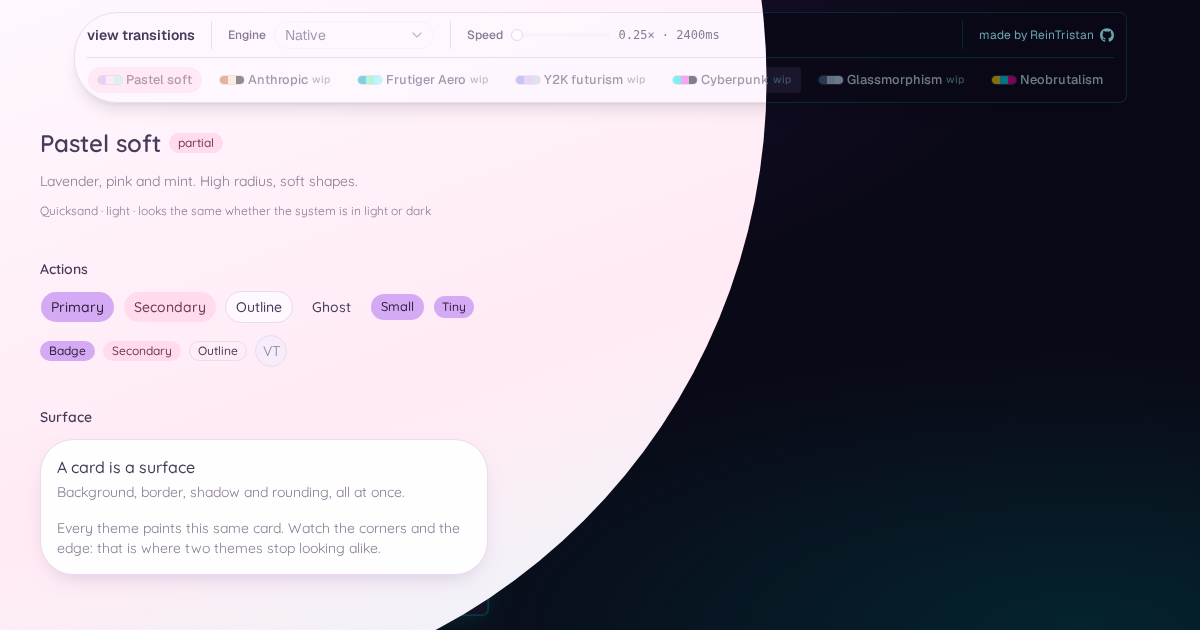
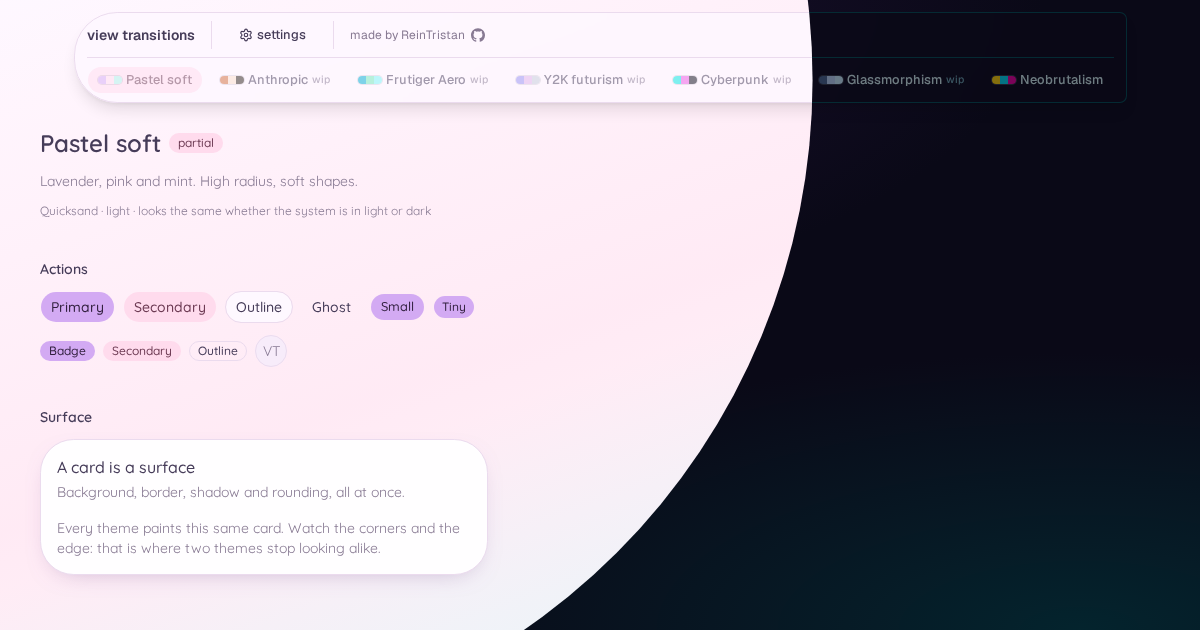
Tailwind first engine part 2: Docs
Updated both readme and claude.md with the new info of the tailwindengine (finally completed)

Upgraded the version to 0.7.0 and changed the description to be inline with the html og one.

Updated the og image and the demo gif for readme

diff --git a/CLAUDE.md b/CLAUDE.md
@@ -33,7 +33,7 @@ Tailwind compiled.
   `tsconfig.test.json` referenced from the solution file. So `pnpm build` typechecks them too —
   a broken test breaks the build. `vitest.config.ts` is referenced from `tsconfig.node.json`.
 - **Adding or removing a test makes `README.md` lie, and it is on you to fix it in the same
-  commit.** Its Testing section opens with a hardcoded count — "176 tests over the store, …" —
+  commit.** Its Testing section opens with a hardcoded count — "N tests over the store, …" —
   and that is the **only** count anywhere in the repo or in `docs/`. Take the new number from the
   `pnpm test:run` summary rather than counting by hand or guessing the delta. Nothing checks
   this, which is exactly why it is written down.
@@ -41,16 +41,22 @@ Tailwind compiled.
   very same pipeline the app gets (the `@` alias, and Tailwind compiling the themes for real).
 - **`optimizeDeps.include` there is load-bearing.** The engines are dynamic imports, so Vite
   discovers them mid-run and *reloads the test file*, which surfaces as a flake with no cause.
-  A new engine means a new line there.
+  A new engine that imports a library means a new line there — `vanilla` and `tailwind` import
+  none, so they have none.
 - Coverage is v8, report only, scoped to `themes/`, `transitions/`, `hooks/` and
   `components/{controls,layout}`. `components/ui/` is excluded on purpose: 61 shadcn files inside
   the include would measure shadcn, not the lab.
 - **The engine conformance suite is the piece to know about.** `test/transitions/engines.test.ts`
-  enumerates `engineList.filter((e) => e.ready)`, so tailwind enrols itself the day its loader
+  enumerates `engineList.filter((e) => e.ready)`, so an engine enrols itself the day its loader
   lands — no test edit. Not a hope, either: `gsap` and `anime` were both added that way and each
-  passed the whole bridge block on the first run. `docs/testing.md` holds the contract.
+  passed the whole bridge block on the first run, and `tailwind` passed four of five. The fifth
+  is why the **native branch asserts the mode, not a name**: some CSS animation or transition on
+  the pseudo-element, and `--vt-progress` untouched. Keyframe names belong to each engine's annex.
+  `docs/testing.md` holds the contract.
 - `document.getAnimations()` filtered by `effect.pseudoElement` is the only window into the
-  view-transition pseudo-elements. That is how the bridge keepalive is actually tested.
+  view-transition pseudo-elements. That is how the bridge keepalive is actually tested, and CSS
+  transitions show up there too (`trace()` records both). **Filter out `-ua-` names** when
+  asking whether an engine animates anything: the browser's own group animation is always there.
 
 ## What this project is
 
@@ -64,8 +70,9 @@ implementations can be compared honestly. Three orthogonal axes:
   the snapshots, a JS library drives the progress), `overlay` (no VT API at all).
 
 Currently implemented: 7 themes (2 partially designed — `pastel` and `neobrutalism`, the
-furthest along but **not** finished — 5 are pendings with a minimum viable palette), and 4
-engines (`vanilla`, `motion`, `gsap`, `anime`). Only `tailwind` is left. The `mode` axis is
+furthest along but **not** finished — 5 are pendings with a minimum viable palette), and all 5
+engines — `tailwind` with 1 of its 5 sub-engines (`core`); the other four are declared as pending
+choices, one plan each. The `mode` axis is
 selectable and persisted, but `overlay` has no module yet, so it shows as pending everywhere.
 
 ## Architecture: the load-bearing decisions
@@ -153,6 +160,14 @@ cannot drift the way `TransitionEngine.modes` once did. A module is one engine i
 engine ever branches on either axis: it passes its own `data-vt-engine` and `data-vt-mode` to
 `prepare()` as literals.
 
+**The third attribute, `data-vt-option`, is not a literal**, and that is the difference worth
+keeping: the sub-engine changes at runtime within one engine, so it travels in
+`TransitionContext.option` and `prepare()` projects it. `runTransition()` fills it from the store
+*after* `loaderFor()`, which may have corrected the engine. It passes through `reconcileOption()`,
+which refuses a `pending` choice for the same reason `reconcileMode()` refuses a mode with no
+loader — a pending sub-engine has no CSS rule, so its attribute would select nothing and the theme
+would snap over with no wipe.
+
 **Two attributes because the stylesheets ask two different questions**, and the answer decides
 which one selects: `data-vt-mode` is *how* the wipe is produced, `data-vt-engine` is *who* runs
 it. The rule is **CSS per mode where the engines share the mechanism, CSS per engine where they
@@ -161,9 +176,11 @@ tenants writing different CSS (vanilla by hand, tailwind through utilities) and 
 engine. Keying native on the mode would make vanilla's rule match tailwind too, and every one of
 tailwind's five sub-engines would have to remember to cancel it.
 
-Engines are **dynamically imported** so the bundle weight the lab measures is real (`vanilla` is
-0.22 kB, `anime` 30.45 kB, `motion` 61.44 kB, `gsap` 69.95 kB — and that spread is a finding, not
-trivia: the three bridge engines are doing the identical job).
+Engines are **dynamically imported** so the bundle weight the lab measures is real (`vanilla` and
+`tailwind` are 0.23 kB, `anime` 30.45 kB, `motion` 61.45 kB, `gsap` 69.95 kB — and that spread is
+a finding, not trivia: the three bridge engines are doing the identical job). The two native
+chunks are twins because they only hold the `startViewTransition` call; a sub-engine's cost is
+CSS and lives in the main stylesheet, where the chunk column cannot see it.
 `runTransition()` also holds an anti-overlap lock — a second theme change while a transition is
 live would make the browser abort the first one and flicker. `loaderFor()` never degrades
 quietly: an engine with no loader, or a mode the engine cannot run, warns and **corrects the
@@ -171,7 +188,9 @@ selection** so the picker stops announcing something else.
 
 An engine may own an extra axis, declared as `EngineMeta.options` — tailwind's five sub-engines
 today. It is a descriptor and not a component with `if (engine === 'tailwind')`, so the settings
-bar walks it without knowing which engine it is.
+bar walks it without knowing which engine it is. A choice's `status` is hand-written — a sub-engine
+is CSS, not a module, so there is no loader to derive it from — and `registry.test.ts` holds the
+nearest thing: every `ready` choice has its `styles/transitions/<engine>/<choice>.css`.
 
 Note the import direction: `transitions/registry.ts` and `transitions/types.ts` are leaves (no
 imports of their own beyond each other), `themes/use-theme-store.ts` imports both, and
@@ -229,12 +248,15 @@ not disabled — the browser is simply not routing anything to them for those fe
 ### CSS layering
 
 `src/index.css` is the import root — fonts, the `dark` variant, `@theme inline`, then
-`styles/transitions.css`, every `styles/transitions/*.css` and every `styles/themes/*.css`.
+`styles/transitions.css`, every file under `styles/transitions/` and every `styles/themes/*.css`.
 **Adding a file under either of those two directories means adding its `@import` there too.**
 
 `styles/transitions.css` is the shared half — the `@property`, the `--vt-*` geometry, the base
 state of the root pseudo-elements, the busy state and the reduced-motion net — and each wipe sits
-in its own file beside it (`transitions/vanilla.css`, `transitions/bridge.css`). There is
+in its own file beside it (`transitions/vanilla.css`, `transitions/bridge.css`, and one
+`transitions/tailwind/<choice>.css` per sub-engine, keyed on the engine *and* the option). The
+Tailwind ones reach the pseudo-element through `@apply`, which is the only way utilities can:
+it carries no classes. There is
 deliberately **no `native.css`**: that mode has nothing left to share once `vt-reveal` belongs to
 vanilla, and an empty file kept for symmetry would say something untrue.
 

diff --git a/README.md b/README.md
@@ -44,9 +44,10 @@ same engine can implement more than one:
 
 | engine | modes | chunk | notes |
 |---|---|---|---|
-| Vanilla | `native` | 0.22 kB | No library at all. The animation is hand-written CSS on the pseudo-element. |
+| Vanilla | `native` | 0.23 kB | No library at all. The animation is hand-written CSS on the pseudo-element. |
+| Tailwind | `native` | 0.23 kB | The same wipe written through Tailwind utilities. 1 of 5 sub-engines ready: **core**, a CSS transition with `@starting-style`. |
 | Anime.js | `bridge` | 30.45 kB | One `requestAnimationFrame` loop shared by every animation on the page. |
-| Motion | `bridge` | 61.44 kB | The reference implementation of the bridge. |
+| Motion | `bridge` | 61.45 kB | The reference implementation of the bridge. |
 | GSAP | `bridge` | 69.95 kB | Its own ticker. Flip lands with the overlay mode. |
 
 Engines are loaded lazily, so the bundle weight the lab measures is real — and that column is
@@ -54,6 +55,10 @@ already a finding rather than trivia. The three bridge engines do the identical 
 scalar from 0 to 1 on the same curve, write it to `--vt-progress`, let the same `clip-path`
 consume it. Driven through the real UI they are indistinguishable, frame for frame. Anime.js
 costs half of Motion and under half of GSAP for that same result.
+
+The two native engines weigh the same for the opposite reason: their chunk is only the call to
+`startViewTransition`. The wipe itself is CSS and lands in the main stylesheet, so that column
+cannot see what a Tailwind sub-engine costs — only the stylesheet can.
 
 The curve is held constant on purpose, each library spelling it its own way — Motion's
 `cubic-bezier(0.22, 1, 0.36, 1)`, GSAP's `power4.out`, Anime's `outQuint`. If two engines looked
@@ -63,7 +68,7 @@ different, something would be broken rather than interesting.
 
 | engine | modes | notes |
 |---|---|---|
-| Tailwind | `native` | Declarative through Tailwind, across five sub-engines; varies between plugins. |
+| Tailwind sub-engines | `native` | `tw-animate-css`, `tailwind-animations`, `tailwindcss-animated` and `tailwindcss-motion`: the same wipe asked of each library through its own utilities. Already listed in the picker as pending. |
 
 GSAP and Anime.js also declare `overlay`. The `mode` selector now exists — it lives in the
 settings popover, next to the engine — but no engine ships an overlay module yet, so the option is
@@ -93,7 +98,7 @@ Vitest in **browser mode** — Playwright provider, Chromium headless. jsdom wou
 nodes, and half of what the suite asserts is computed style out of a real cascade with Tailwind
 compiled for real.
 
-176 tests over the store, the theme registry, the DOM contract, the surface contract of all seven
+190 tests over the store, the theme registry, the DOM contract, the surface contract of all seven
 themes, the orchestrator and the controls. `document.getAnimations()` filtered by
 `effect.pseudoElement` is the only window into the pseudo-elements, and it is how the `bridge`
 keepalive is actually tested rather than assumed.
@@ -101,7 +106,10 @@ keepalive is actually tested rather than assumed.
 The piece worth knowing about is the **engine conformance suite**. It enumerates
 `engineList.filter((engine) => engine.ready)`, so an engine enrols itself the day its loader lands
 — no test to write. Not a hope, either: GSAP and Anime.js were both added that way and each passed
-the whole bridge block on the first run. Only Tailwind is left to walk through it. Every engine has to prove the same five things: it
+the whole bridge block on the first run. Tailwind passed four of the five on its first run too; the
+fifth only fell because the native branch still named vanilla's keyframes, and now asserts what
+the mode promises instead — some CSS on the pseudo-element, and the bridge untouched. Every engine
+has to prove the same five things: it
 skips the API under reduced motion, it still swaps the theme in a browser with no View Transitions
 API, it leaves no `--vt-*` behind, it lasts roughly as long as it was told to, and it animates the
 root pseudo-element in its declared mode.
